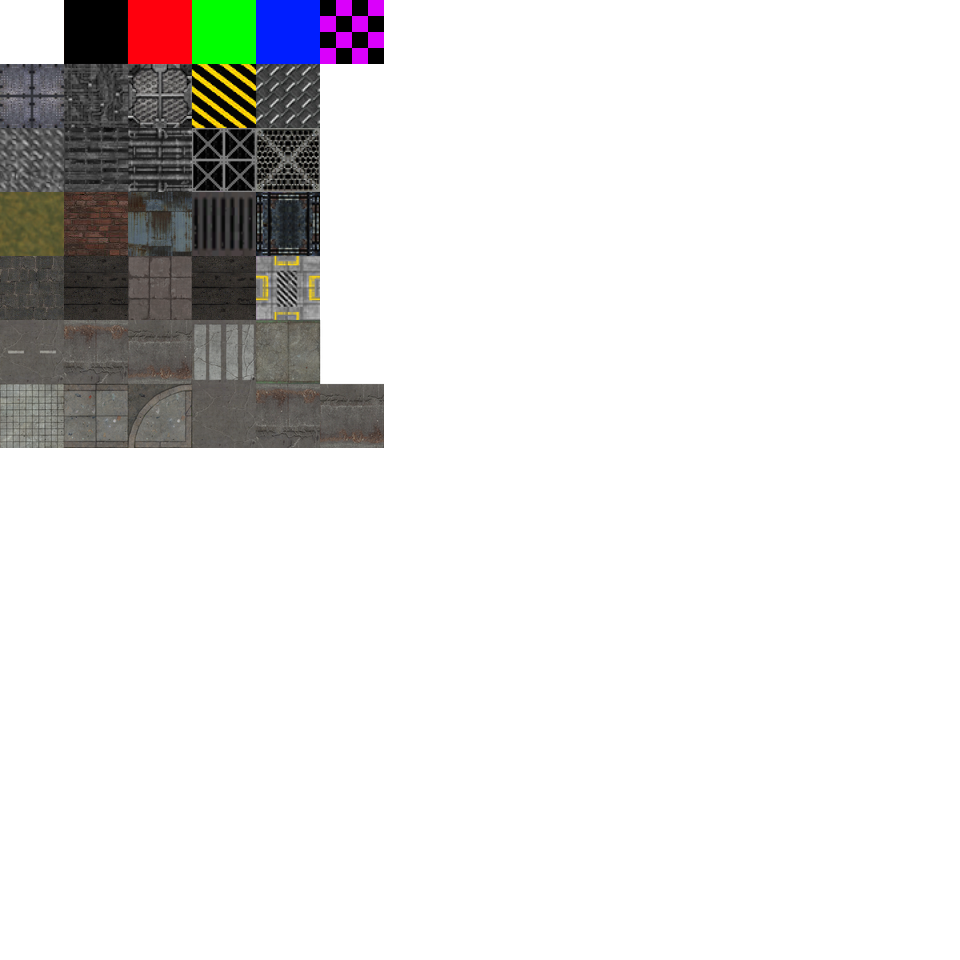
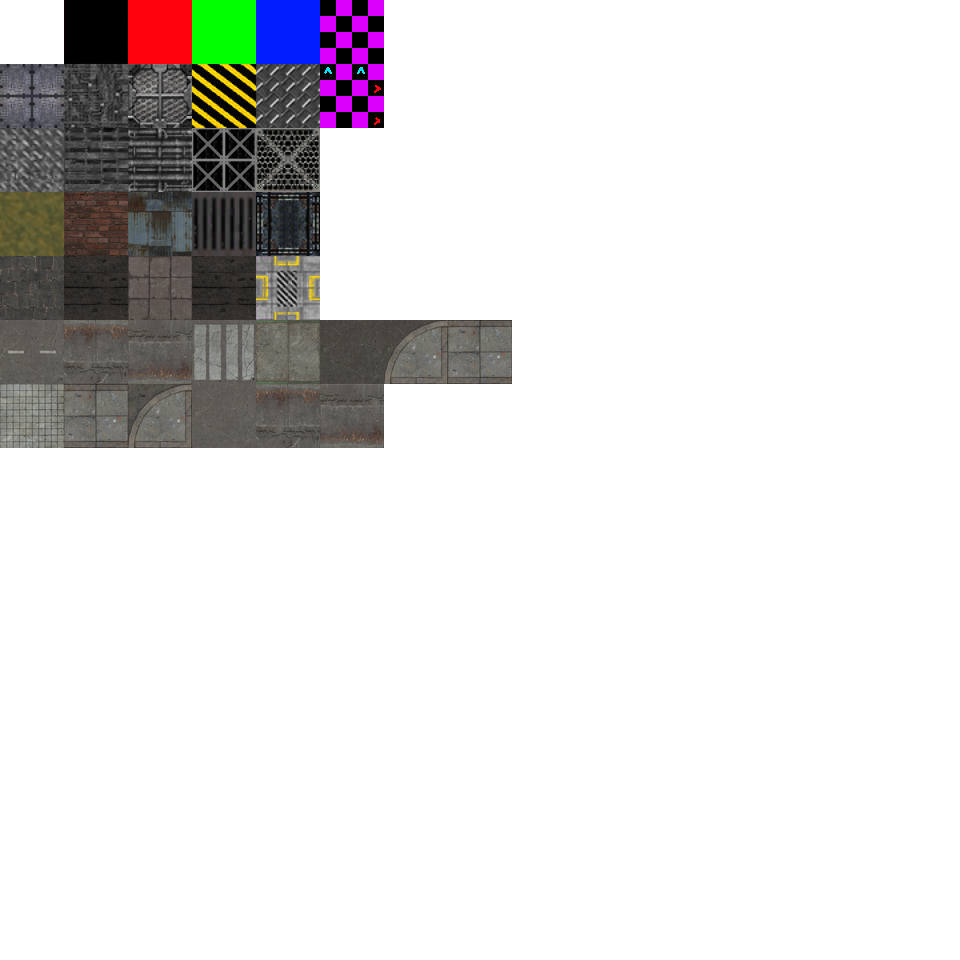
world

Changed region(s): [[0.3125, 0.3125, 0.5312, 0.4062], [0.3125, 0.0625, 0.4062, 0.1562]]

diff --git a/game3/chunk_model.go b/game3/chunk_model.go
@@ -49,8 +49,16 @@ var FaceModels = []FaceModel{
 	{
 		Id:            face_model_sidewalk,
 		Name:          "floor sidewalk",
+		TileX:         8,
+		TileY:         6,
+		FaceDirection: FaceDown,
+		FaceType:      FaceSolid,
+	},
+	{
+		Id:            face_model_road,
+		Name:          "floor road",
 		TileX:         6,
-		TileY:         2,
+		TileY:         6,
 		FaceDirection: FaceDown,
 		FaceType:      FaceSolid,
 	},
@@ -127,6 +135,7 @@ func GenerateChunkYModel(c *Chunk, y int) rl.Model {
 	for x := range ChunkWidth {
 		for z := range ChunkWidth {
 			cell := &c.Cells[y][x][z]
+			worldPos := ChunkToWorld(c.Position, LocalPos{x, y, z})
 			transform := vec3.MatrixTranslateXYZ(float64(x), 0, float64(z))
 
 			for i, face := range cell.Faces {
@@ -158,14 +167,71 @@ func GenerateChunkYModel(c *Chunk, y int) rl.Model {
 				mesh = mesh.Transform(faceTransform)
 
 				faceModel := FaceModelsMap[face.ModelType]
-				edit.AddMesh(mesh, faceModel.TileX, faceModel.TileY)
 
-				// switch face.ModelType {
-				// case face_model_debug:
-				// 	edit.AddMesh(mesh, 3, 1)
-				// case face_model_wall_brick:
-				// 	edit.AddMesh(mesh, 3, 1)
-				// }
+				rotation := 0
+
+				switch face.Rotation {
+				case FaceDown:
+				case FaceWest:
+					rotation = 0
+				case FaceNorth:
+					rotation = 1
+				case FaceEast:
+					rotation = 2
+				case FaceSouth:
+					rotation = 3
+				}
+
+				if face.Type == FaceStair {
+					rotation = (rotation + 1) % 4
+				}
+
+				switch faceModel.Id {
+				case face_model_sidewalk:
+					{
+						up := c.world.GetCell(worldPos.Add(vec3.Z(1))).Faces[FaceDown].ModelType
+						down := c.world.GetCell(worldPos.Add(vec3.Z(-1))).Faces[FaceDown].ModelType
+						left := c.world.GetCell(worldPos.Add(vec3.X(1))).Faces[FaceDown].ModelType
+						right := c.world.GetCell(worldPos.Add(vec3.X(-1))).Faces[FaceDown].ModelType
+
+						tileX := faceModel.TileX
+						tileY := faceModel.TileY
+
+						if left == face_model_sidewalk || right == face_model_sidewalk {
+							rotation = 0
+						}
+
+						if up == face_model_sidewalk || down == face_model_sidewalk {
+							rotation = 1
+						}
+
+						if up == face_model_road && left == face_model_road && down != face_model_road && right != face_model_road {
+							tileX = 7
+							rotation = 2
+						}
+
+						if up == face_model_road && right == face_model_road && down != face_model_road && left != face_model_road {
+							tileX = 7
+							rotation = 3
+						}
+
+						if right == face_model_road && down == face_model_road && left != face_model_road && up != face_model_road {
+							tileX = 7
+							rotation = 0
+						}
+
+						if left == face_model_road && down == face_model_road && right != face_model_road && up != face_model_road {
+							tileX = 7
+							rotation = 1
+						}
+
+						edit.AddMesh(mesh, tileX, tileY, rotation)
+					}
+
+				default:
+					edit.AddMesh(mesh, faceModel.TileX, faceModel.TileY, rotation)
+				}
+
 			}
 		}
 	}

diff --git a/model/model.go b/model/model.go
@@ -128,42 +128,53 @@ func NewModel(tiles int, path string, matPath string, matName string) *Model {
 	}
 }
 
-func (m *Model) AddMesh(mesh Mesh, tileX int, tileY int) {
+func (m *Model) AddMesh(mesh Mesh, tileX int, tileY int, rotation int) {
 
-	aa, bb := mesh.GetAABB()
+	aa, _ := mesh.GetAABB()
 
-	fx, tx := aa.X, bb.X
-	fz, tz := aa.Z, bb.Z
-	fy, _ := aa.Y, bb.Y
+	// fx, tx := aa.X, bb.X
+	// fz, tz := aa.Z, bb.Z
+	// fy, _ := aa.Y, bb.Y
 
 	for _, t := range mesh.vertices {
-		normal := t[1].Subtract(t[0]).CrossProduct(t[2].Subtract(t[0])).Normalize()
+		a, b, c := t[0], t[1], t[2]
+		normal := b.Subtract(a).CrossProduct(c.Subtract(a)).Normalize()
 
 		uvOrigin := vec2.XY(float64(tileX-1), m.tiles-float64(tileY-1)-1)
-		uvs := [3]vec2.Value{}
+		uvs := [3]vec2.Value{{0, 0}, {0, 1}, {1, 0}}
 
 		for i, uv := range uvs {
+			vp := t[i].Subtract(aa)
+			absN := normal.Abs()
 
-			if normal.Z == 1 || normal.Y == 1 {
-				uv.X += t[i].X - fx
+			u, v := 0., 0.
+
+			if absN.X > absN.Y && absN.X > absN.Z {
+				u, v = vp.Z, vp.Y
+			} else if absN.Y > absN.X && absN.Y > absN.Z {
+				u, v = vp.X, vp.Z
+			} else {
+				u, v = vp.X, vp.Y
 			}
-			if normal.Y == -1 || normal.Z == -1 {
-				uv.X += tx - t[i].X
-			}
-			if normal.X == 1 {
-				uv.X += tz - t[i].Z
-			}
-			if normal.X == -1 {
-				uv.X += t[i].Z - fz
-			}
-			if normal.Y == 0 {
-				uv.Y += t[i].Y - fy
-			}
-			if normal.Y == 1 {
-				uv.Y += tz - t[i].Z
-			}
-			if normal.Y == -1 {
-				uv.Y += t[i].Z - fz
+
+			uv.X = u
+			uv.Y = v
+
+			if normal.Y != 0 {
+				switch rotation {
+				case 2:
+					uv.X = 1 - u
+					uv.Y = v
+				case 3:
+					uv.X = 1 - v
+					uv.Y = 1 - u
+				case 0:
+					uv.X = u
+					uv.Y = 1 - v
+				case 1:
+					uv.X = v
+					uv.Y = u
+				}
 			}
 
 			uvs[i] = uvOrigin.Add(uv).Scale(1 / m.tiles)

diff --git a/game3/editor.go b/game3/editor.go
@@ -1,6 +1,7 @@
 package game3
 
 import (
+	"fmt"
 	"game/vec2"
 	"game/vec3"
 	"image/color"
@@ -213,10 +214,10 @@ func (e *Editor) Draw() {
 		}
 
 		BeginOverlayMode(func() {
-			// rl.DrawCube(e.mouseWorldPosition.Raylib(), 0.05, 0.05, 0.05, rl.Black)
-			// rl.DrawCube(e.mouseWorldPosition.Add(vec3.X(0.25)).Raylib(), 0.05, 0.05, 0.05, rl.Red)
-			// rl.DrawCube(e.mouseWorldPosition.Add(vec3.Y(0.25)).Raylib(), 0.05, 0.05, 0.05, rl.Green)
-			// rl.DrawCube(e.mouseWorldPosition.Add(vec3.Z(0.25)).Raylib(), 0.05, 0.05, 0.05, rl.Blue)
+			rl.DrawCube(e.mouseWorldPosition.Raylib(), 0.05, 0.05, 0.05, rl.Black)
+			rl.DrawCube(e.mouseWorldPosition.Add(vec3.X(0.25)).Raylib(), 0.05, 0.05, 0.05, rl.Red)
+			rl.DrawCube(e.mouseWorldPosition.Add(vec3.Y(0.25)).Raylib(), 0.05, 0.05, 0.05, rl.Green)
+			rl.DrawCube(e.mouseWorldPosition.Add(vec3.Z(0.25)).Raylib(), 0.05, 0.05, 0.05, rl.Blue)
 
 			// phys := NewPhysicsDrawer(e.Position.Y, true, true, true)
 			// cp.DrawSpace(e.world.space, &phys)
@@ -236,6 +237,12 @@ func (e *Editor) Draw() {
 
 	})
 	e.world.shader.FullBright.Set(0)
+
+	cpos, lpos := WorldToChunk(e.mouseWorldPosition)
+
+	rl.DrawText(fmt.Sprintf("%.1f %.1f %.1f", e.mouseWorldPosition.X, e.mouseWorldPosition.Y, e.mouseWorldPosition.Z), 10, 40, 20, rl.White)
+	rl.DrawText(fmt.Sprintf("%+v", cpos), 10, 60, 20, rl.White)
+	rl.DrawText(fmt.Sprintf("%+v", lpos), 10, 80, 20, rl.White)
 
 	switch e.Tool {
 	case TOOL_FLOOR:

diff --git a/game3/editor_tool_cell.go b/game3/editor_tool_cell.go
@@ -54,13 +54,17 @@ func (t *ToolCell) Update(e *Editor) {
 	if rl.IsMouseButtonReleased(rl.MouseButtonRight) {
 		chunks := make(map[*Chunk]bool, 0)
 		for pos, _ := range t.pastingCells {
-			cell, chunk := e.world.GetCell(pos)
-			face := &cell.Faces[t.FaceDirection]
+			cell, chunk := e.world.Get(pos)
+
 			if t.Delete {
-				face.ModelType = 0
-				face.Rotation = 0
-				face.Type = 0
+				for i := range cell.Faces {
+					face := &cell.Faces[i]
+					face.ModelType = 0
+					face.Rotation = 0
+					face.Type = 0
+				}
 			} else {
+				face := &cell.Faces[t.FaceDirection]
 				face.ModelType = t.FaceModelType
 				face.Rotation = t.FaceRotation
 				face.Type = t.FaceType
@@ -76,9 +80,9 @@ func (t *ToolCell) Update(e *Editor) {
 	if !rl.IsMouseButtonDown(rl.MouseButtonRight) {
 		if t.FaceDirection != FaceDown {
 			t.FaceDirection = e.mouseCellDirection
-		} else {
-			t.FaceRotation = e.mouseCellDirection
 		}
+		t.FaceRotation = e.mouseCellDirection
+
 	}
 
 }

diff --git a/game3/game.go b/game3/game.go
@@ -132,6 +132,7 @@ func (w *World) Upsert(worldType WorldType) *World {
 		game.Station = w
 	}
 	w.space = cp.NewSpace()
+	w.space.SetCollisionSlop(0.01)
 	w.shader = NewShader(&MainShader{}, "./glsl330/lighting.vs", "./glsl330/lighting.fs")
 	renderWidth, renderHeight := rl.GetRenderWidth(), rl.GetRenderHeight()
 	w.renderTexture = rl.LoadRenderTexture(int32(renderWidth/4), int32(renderHeight/4))
@@ -249,7 +250,7 @@ func (w *World) Draw() {
 
 }
 
-func (w *World) GetCell(pos vec3.Value) (*Cell, *Chunk) {
+func (w *World) Get(pos vec3.Value) (*Cell, *Chunk) {
 	cpos, lpos := WorldToChunk(pos)
 
 	chunk, ok := w.Chunks[cpos]
@@ -266,4 +267,10 @@ func (w *World) GetCell(pos vec3.Value) (*Cell, *Chunk) {
 	cell := &chunk.Cells[lpos.Y][lpos.X][lpos.Z]
 
 	return cell, chunk
+}
+
+func (w *World) GetCell(pos vec3.Value) *Cell {
+	cell, _ := w.Get(pos)
+	return cell
+
 }

diff --git a/game3/editor_tool_wall.go b/game3/editor_tool_wall.go
@@ -27,7 +27,7 @@ func (t *ToolWall) Update(e *Editor) {
 	t.CellPos = vec3.XYZ(ix, e.mouseWorldPosition.Y, iz)
 
 	if rl.IsMouseButtonDown(rl.MouseButtonMiddle) {
-		cellRef, _ := e.world.GetCell(t.CellPos)
+		cellRef, _ := e.world.Get(t.CellPos)
 		t.Paste = cellRef.Faces[t.FaceIndex]
 	}
 
@@ -52,7 +52,7 @@ func (t *ToolWall) Update(e *Editor) {
 	if rl.IsMouseButtonReleased(rl.MouseButtonRight) {
 		chunks := make(map[*Chunk]bool, 0)
 		for pos, _ := range t.PastingCells {
-			cell, chunk := e.world.GetCell(pos)
+			cell, chunk := e.world.Get(pos)
 			cell.Faces[t.FaceIndex] = t.Paste
 			chunks[chunk] = true
 		}

diff --git a/game3/editor_tool_floor.go b/game3/editor_tool_floor.go
@@ -25,7 +25,7 @@ func (t *ToolFloor) Update(e *Editor) {
 	t.CellPos = vec3.XYZ(ix, e.mouseWorldPosition.Y, iz)
 
 	if rl.IsMouseButtonDown(rl.MouseButtonMiddle) {
-		cellRef, _ := e.world.GetCell(t.CellPos)
+		cellRef, _ := e.world.Get(t.CellPos)
 		t.Paste = cellRef.Faces[FaceDown]
 	}
 
@@ -67,7 +67,7 @@ func (t *ToolFloor) Update(e *Editor) {
 	if rl.IsMouseButtonReleased(rl.MouseButtonRight) {
 		chunks := make(map[*Chunk]bool, 0)
 		for pos, _ := range t.PastingCells {
-			cell, chunk := e.world.GetCell(pos)
+			cell, chunk := e.world.Get(pos)
 			cell.Faces[FaceDown] = t.Paste
 			chunks[chunk] = true
 		}

diff --git a/game3/physics.go b/game3/physics.go
@@ -120,7 +120,7 @@ func UpdatePhysicsY(w *World, shape *cp.Shape, y float64, yVelocity float64) (fl
 	bodyPosition := shape.Body().Position()
 	pos := vec3.XYZ(bodyPosition.X, y, bodyPosition.Y)
 
-	cell, _ := w.GetCell(pos)
+	cell, _ := w.Get(pos)
 
 	groundY := math.Floor(y)
 
@@ -158,7 +158,7 @@ func UpdatePhysicsY(w *World, shape *cp.Shape, y float64, yVelocity float64) (fl
 
 	y += yVelocity
 
-	nextCell, _ := w.GetCell(pos.Add(vec3.Y(0.1)))
+	nextCell, _ := w.Get(pos.Add(vec3.Y(0.1)))
 
 	if nextCell != cell && nextCell.Faces[FaceDown].Type == FaceSolid {
 		y = math.Ceil(y)

diff --git a/vec3/vec3.go b/vec3/vec3.go
@@ -249,6 +249,11 @@ func (v Value) Negate() Value {
 	return XYZ(-v.X, -v.Y, -v.Z)
 }
 
+// Vector3Negate - Negate provided vector (invert direction)
+func (v Value) Abs() Value {
+	return XYZ(math.Abs(v.X), math.Abs(v.Y), math.Abs(v.Z))
+}
+
 // Vector3Divide - Divide vector by vector
 func (v1 Value) Divide(v2 Value) Value {
 	return XYZ(v1.X/v2.X, v1.Y/v2.Y, v1.Z/v2.Z)
